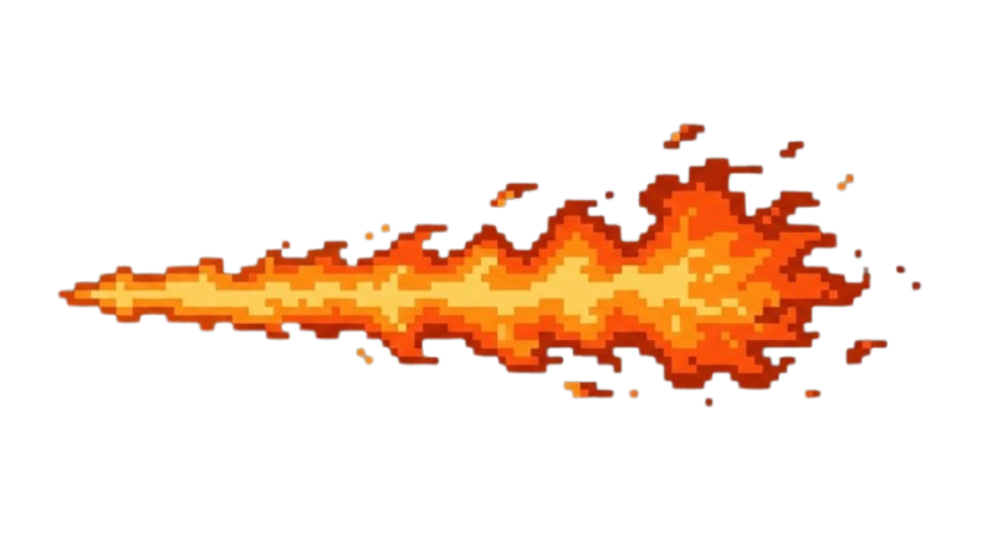
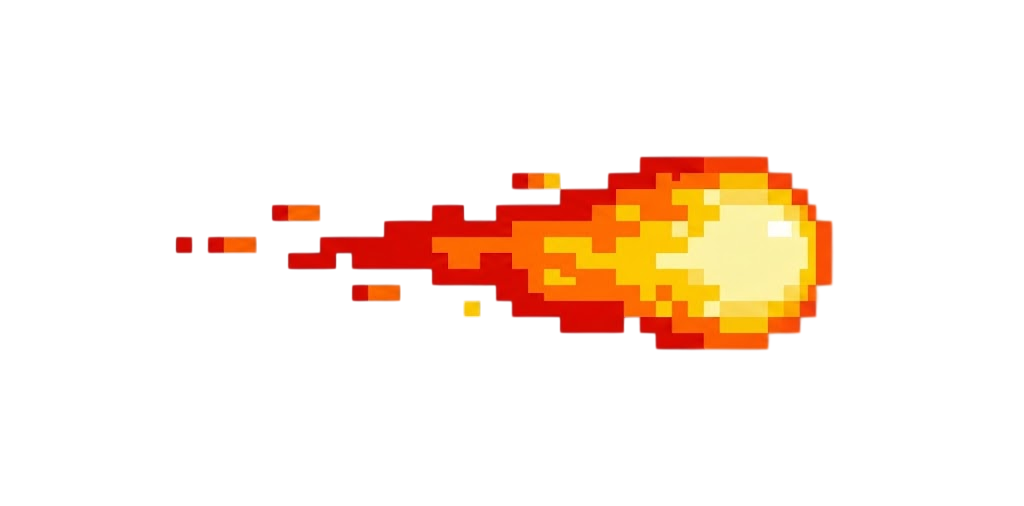
1

diff --git a/Assets/Scritps/Player_All/PlayerItem.cs b/Assets/Scritps/Player_All/PlayerItem.cs
@@ -9,8 +9,8 @@ public class PlayerItem : MonoBehaviour
     [Header("Item Settings")]
     private float itv = 0.3f;
     private int currentItem = 0;
-    private int fire = 100;
-    private float Delay = 0.1f;
+    private int fire = 50;
+    private float Delay = 0.05f;
     public bool hasItem1 = false; // 썬더넛 보유 여부
     public bool hasItem2 = false; // 데스넛 소스 보유 여부
     public bool hasItem3 = false; // 청량 탄산수 도토리 향 보유 여부

diff --git a/Assets/Scritps/Enemy_All/Stage3_Elite.cs b/Assets/Scritps/Enemy_All/Stage3_Elite.cs
@@ -39,7 +39,7 @@ public class Stage3_Elite : MonoBehaviour
         sr = GetComponentInChildren<SpriteRenderer>();
         col = GetComponent<Collider2D>();
         fireBreath.SetActive(false);
-        bodyInstance = Instantiate(bodyPrefab, new Vector3(5.4347f, -1.5088f, 0f), Quaternion.identity);
+        bodyInstance = Instantiate(bodyPrefab, new Vector3(5.6347f, -1.5088f, 0f), Quaternion.identity);
         StartCoroutine(FireMovePattern());
 
     }
